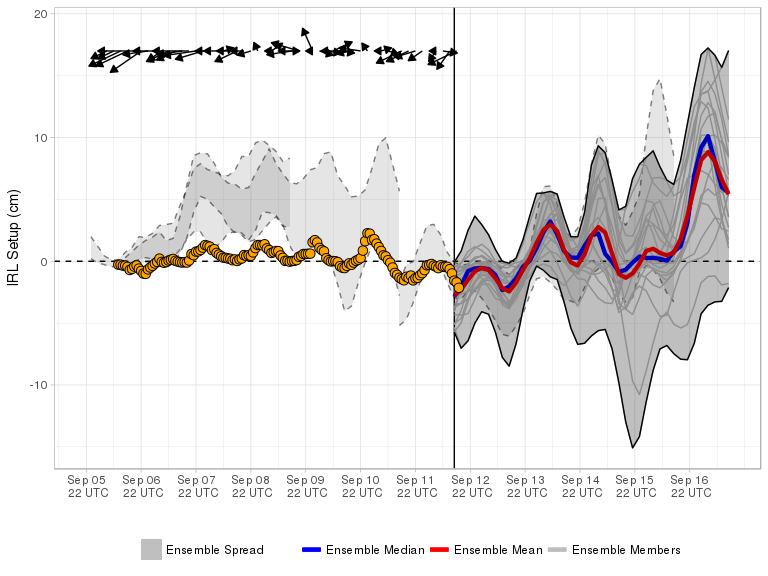
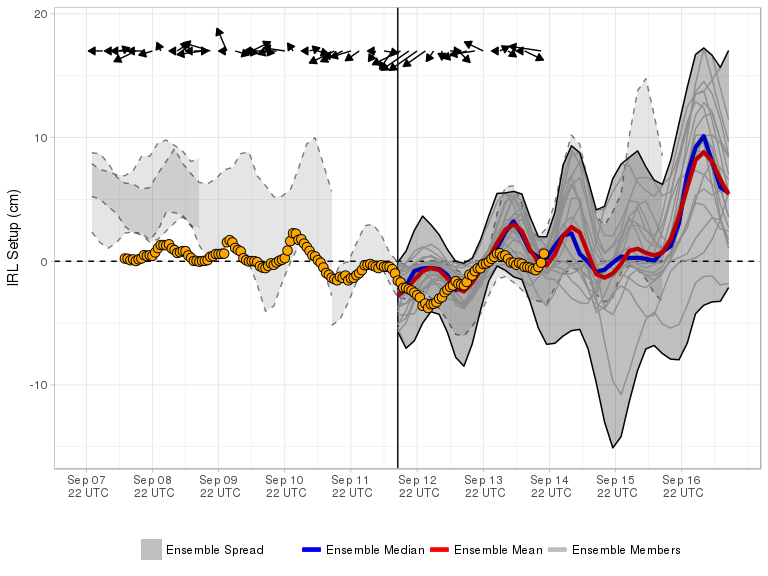
Forecast Update

diff --git a/docs/index.md b/docs/index.md
@@ -3,7 +3,7 @@ Current Forecast 2018-09-12, Cycle 06 UTC
 
 [![](img/raw_setup.png)](https://fit-winds.github.io/IRLSetup/img/raw_setup.png)
 
-> Forecast valid 2018-09-12 13:47:55.
+> Forecast valid 2018-09-14 17:15:02.
 
 Explanation
 -----------
